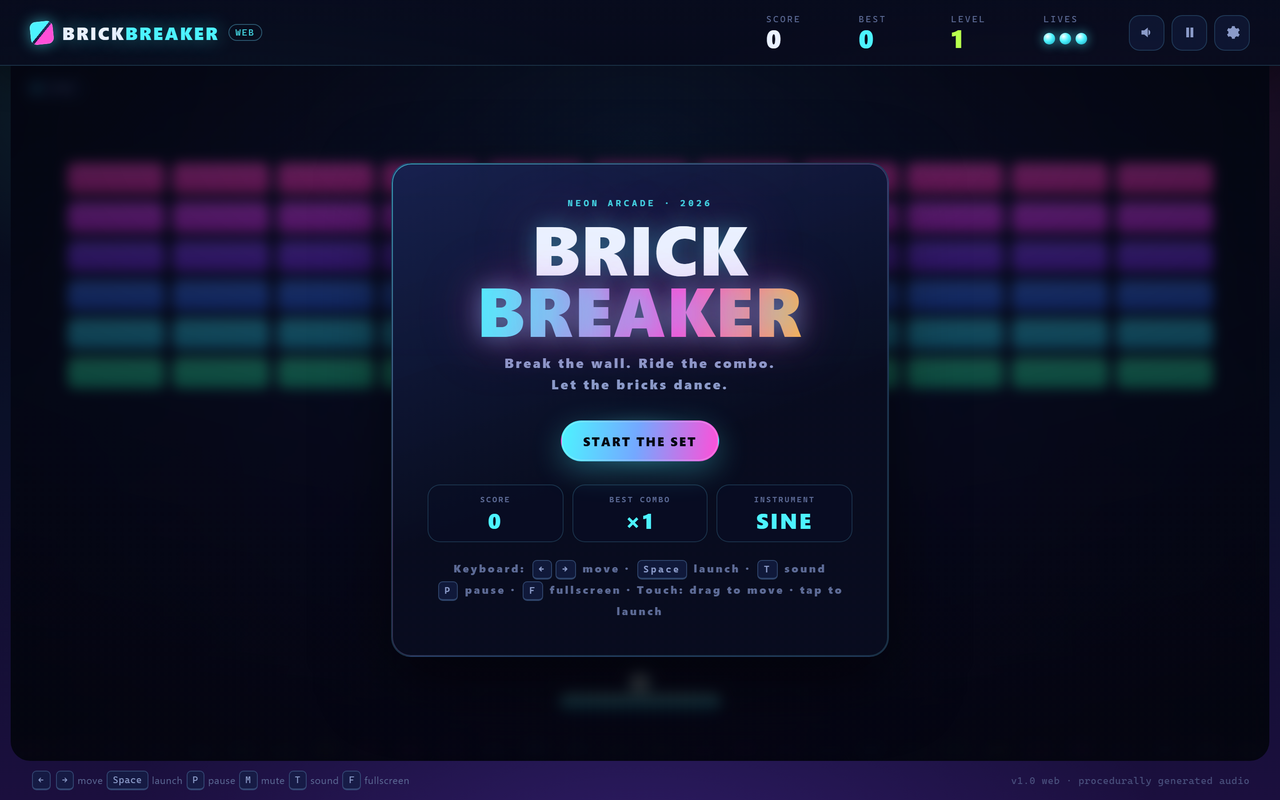
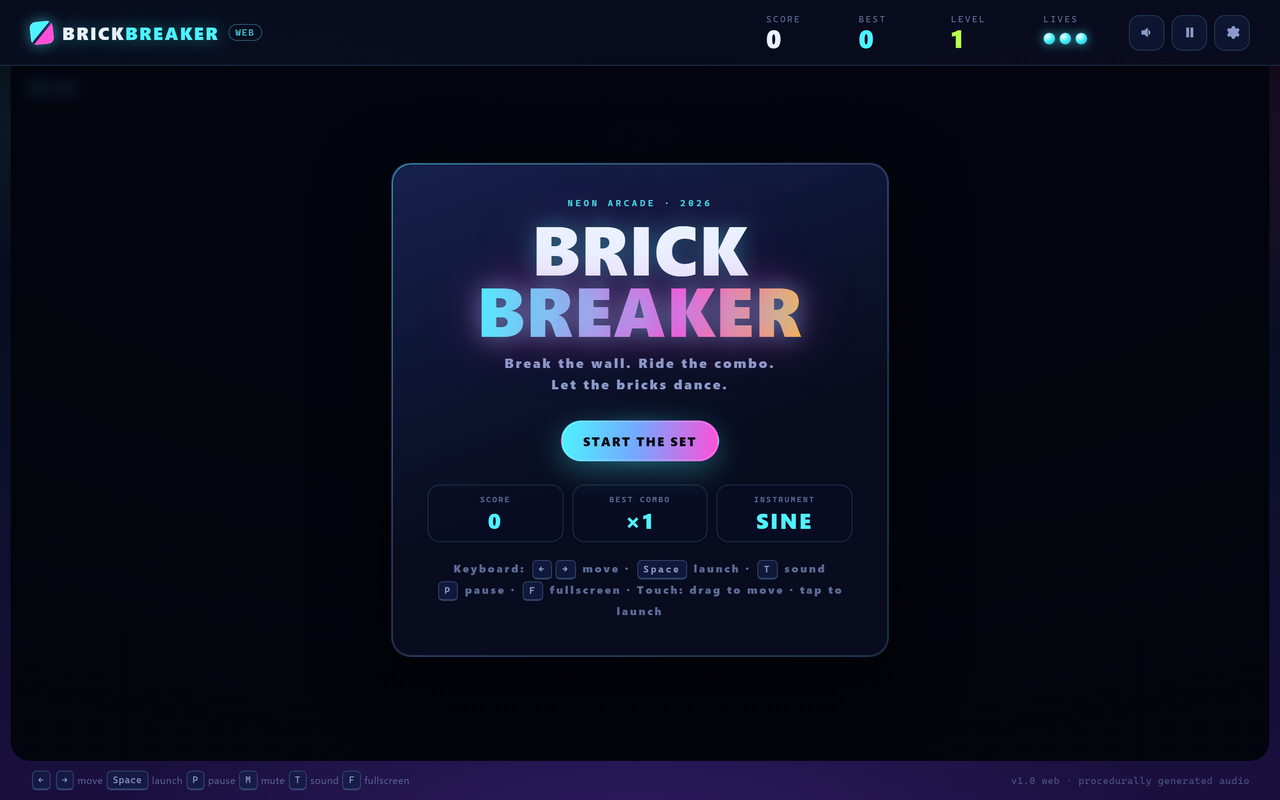
Web: low-fi pixel brick sprites (more arcade feel, more fps)
Bricks were still drawn as vector-ish rounded shapes with bevel strips; the
result looked too clean for the neon-arcade direction and cost per-brick path
work. They are now deliberately low-fi:

- 20x8 pixel-art sprite per brick (dark pixel outline with clipped corners,
  chunky two-tone bevel, dither marks, white 2-HP pip, pixel crack zig-zag),
  stretched with imageSmoothingEnabled=false.
- Sprites are cached per quantised hue/lightness/state/HP bucket, so the combo
  colour cycle is just drawImage calls; the wall still shifts hue as before.
- Cache is bounded and rebuilt if it grows past 320 variants.

Measured in headless Chrome (software rendering): 1440x900@DPR2 adaptive
~55-58 -> ~60 fps; full 2x backing ~34 fps (GPU is faster); DPR1 and mobile
remain 60 fps. 35 core tests pass; touch regression passes; no console errors.
Screenshots/docs/CHANGELOG refreshed with the pixel look and new numbers.

Changed region(s): [[0.0312, 0.1875, 0.9688, 0.5], [0.4375, 0.8438, 0.5625, 0.9062]]

diff --git a/web/js/50-renderer.js b/web/js/50-renderer.js
@@ -71,6 +71,7 @@
     this._bgWidth = 0;
     this._bgHeight = 0;
     this._glowSprites = {};
+    this._brickSprites = {};
     this._rowHueStrings = null;
     this._eqHue = null;
 
@@ -378,8 +379,82 @@
   };
 
   /* ---------------------------------------------------------------------
-   * Bricks (flat fills; no per-brick gradients/shadowBlur)
+   * Bricks: tiny pixel-art sprites scaled up with nearest-neighbour filtering.
+   *
+   * Each brick is a 20×8 pixel sprite (outline, chunky bevel, dither marks,
+   * crack pixels) stretched over the brick rect. That is much cheaper than
+   * per-brick paths/gradients and gives the wall an arcade-CRT look. Combo
+   * colours are quantised into small hue/lightness buckets so the sprite cache
+   * stays tiny while the wall still visibly cycles colour.
    * ------------------------------------------------------------------- */
+  var BRICK_SPRITE_W = 20;
+  var BRICK_SPRITE_H = 8;
+
+  Renderer.prototype._brickSprite = function (hue, lightness, state, maxHp) {
+    var hueBucket = Math.round((((hue % 360) + 360) % 360) / 12) * 12 % 360;
+    var lightBucket = Math.round(lightness / 4) * 4;
+    var key = hueBucket + ':' + lightBucket + ':' + state + ':' + (maxHp > 1 ? '2' : '1');
+    var cached = this._brickSprites[key];
+    if (cached) return cached;
+
+    var W = BRICK_SPRITE_W;
+    var H = BRICK_SPRITE_H;
+    var canvas = document.createElement('canvas');
+    canvas.width = W;
+    canvas.height = H;
+    var g = canvas.getContext('2d');
+    var saturation = style.brickSaturation;
+    var body = hsl(hueBucket, saturation, lightBucket);
+    var top = hsl(hueBucket, saturation, Math.min(80, lightBucket + 16));
+    var bottom = hsl((hueBucket + 14) % 360, saturation, Math.max(18, lightBucket - 16));
+    var outline = 'rgba(4, 6, 14, 0.92)';
+
+    // dark pixel outline with clipped corners
+    g.fillStyle = outline;
+    g.fillRect(0, 0, W, H);
+    g.clearRect(0, 0, 1, 1);
+    g.clearRect(W - 1, 0, 1, 1);
+    g.clearRect(0, H - 1, 1, 1);
+    g.clearRect(W - 1, H - 1, 1, 1);
+
+    // body + chunky two-tone bevel
+    g.fillStyle = body;
+    g.fillRect(1, 1, W - 2, H - 2);
+    g.fillStyle = top;
+    g.fillRect(1, 1, W - 2, 1);
+    g.fillRect(1, 1, 1, H - 2);
+    g.fillStyle = bottom;
+    g.fillRect(1, H - 2, W - 2, 1);
+    g.fillRect(W - 2, 2, 1, H - 4);
+
+    // dither marks (the deliberately "low quality" texture)
+    g.fillStyle = 'rgba(255, 255, 255, 0.28)';
+    g.fillRect(3, 2, 2, 1);
+    g.fillRect(W - 6, 2, 2, 1);
+    g.fillStyle = 'rgba(0, 0, 0, 0.22)';
+    g.fillRect(5, H - 3, 1, 1);
+    g.fillRect(W - 8, H - 3, 1, 1);
+
+    if (maxHp > 1) {
+      g.fillStyle = 'rgba(255, 255, 255, 0.9)';
+      g.fillRect(Math.floor(W / 2) - 1, Math.floor(H / 2) - 1, 2, 2);
+    }
+
+    if (state === BB.BrickState.CRACKED) {
+      g.fillStyle = 'rgba(3, 4, 12, 0.9)';
+      g.fillRect(7, 1, 1, 2);
+      g.fillRect(8, 3, 1, 2);
+      g.fillRect(7, 5, 1, 2);
+      g.fillRect(12, 2, 1, 1);
+      g.fillRect(13, 3, 1, 2);
+      g.fillRect(12, 5, 1, 1);
+    }
+
+    if (Object.keys(this._brickSprites).length > 320) this._brickSprites = {};
+    this._brickSprites[key] = canvas;
+    return canvas;
+  };
+
   Renderer.prototype._brickStyle = function (session, brick) {
     var multiplier = this._comboMultiplier(session);
     var heat = clamp((multiplier - 1) / Math.max(1, config.COMBO_MAX - 1), 0, 1);
@@ -393,24 +468,14 @@
       }
     }
     var lightness = style.brickLightness - 2 + heat * 3 + this.beat * (2 + heat * 6);
-    var saturation = style.brickSaturation + heat * 6;
-    return {
-      hue: hue,
-      saturation: saturation,
-      lightness: lightness,
-      heat: heat,
-      fill: hsl(hue, saturation, lightness),
-      top: hsl(hue, saturation, Math.min(78, lightness + 12)),
-      bottom: hsl(hue + 12, saturation, Math.max(20, lightness - 14))
-    };
+    return { hue: hue, lightness: lightness, heat: heat };
   };
 
   Renderer.prototype._drawBricks = function (session) {
     var ctx = this.ctx;
     var bricks = session.bricks || [];
-    var radius = Math.max(3, Math.min(9, (session.layout ? session.layout.brickH : 20) * 0.22));
-    var round = typeof ctx.roundRect === 'function';
-
+    ctx.save();
+    ctx.imageSmoothingEnabled = false;
     for (var i = 0; i < bricks.length; i += 1) {
       var brick = bricks[i];
       if (brick.state === BB.BrickState.GONE) continue;
@@ -420,44 +485,14 @@
       var alpha = brick.state === BB.BrickState.FADING
         ? clamp(brick.fade / config.BRICK_FADE_TIME, 0, 1)
         : 1;
+      if (alpha <= 0.01) continue;
       var look = this._brickStyle(session, brick);
-      var x = rect.x;
-      var y = rect.y;
-      var w = rect.w;
-      var h = rect.h;
-
+      var sprite = this._brickSprite(look.hue, look.lightness, brick.state, brick.maxHp);
       ctx.globalAlpha = alpha;
-      ctx.fillStyle = look.fill;
-      if (round) {
-        ctx.beginPath();
-        ctx.roundRect(x, y, w, h, radius);
-        ctx.fill();
-      } else {
-        roundRectPath(ctx, x, y, w, h, radius);
-        ctx.fill();
-      }
-
-      // cheap two-tone bevel (rectangular strips inside the rounded shape)
-      var inset = Math.max(1.5, radius * 0.6);
-      ctx.globalAlpha = alpha * 0.45;
-      ctx.fillStyle = look.top;
-      ctx.fillRect(x + inset, y + inset * 0.7, w - inset * 2, Math.max(1.5, h * 0.22));
-      ctx.globalAlpha = alpha * 0.30;
-      ctx.fillStyle = look.bottom;
-      ctx.fillRect(x + inset, y + h - inset * 1.6, w - inset * 2, Math.max(1, h * 0.16));
-
-      if (brick.state === BB.BrickState.CRACKED) {
-        ctx.globalAlpha = alpha * 0.55;
-        ctx.strokeStyle = 'rgba(8, 10, 24, 0.85)';
-        ctx.lineWidth = Math.max(1, h * 0.07);
-        ctx.beginPath();
-        ctx.moveTo(x + w * 0.36, y + h * 0.16);
-        ctx.lineTo(x + w * 0.5, y + h * 0.54);
-        ctx.lineTo(x + w * 0.42, y + h * 0.84);
-        ctx.stroke();
-      }
+      ctx.drawImage(sprite, Math.round(rect.x), Math.round(rect.y), Math.round(rect.w), Math.round(rect.h));
     }
     ctx.globalAlpha = 1;
+    ctx.restore();
   };
 
   /* ---------------------------------------------------------------------

diff --git a/CHANGELOG.md b/CHANGELOG.md
@@ -28,16 +28,18 @@ Version numbers before 1.0.0 are retrospective labels for the dated milestones.
 - `localStorage` persistence for best score/combo/level, instrument, mute,
   light-show preference and render-quality mode.
 - **Performance pass for the web build**: the static playfield scenery is cached
-  in an offscreen canvas, bricks are flat-shaded instead of using per-brick
-  gradients + `shadowBlur`, the combo glow is a cached sprite, the HUD/chips no
-  longer use `backdrop-filter` over the animated canvas, and the ambient
-  background is static. The renderer now sizes its backing store from
-  `devicePixelRatio` × an adaptive quality scale: when a device cannot hold
-  ~54 fps the canvas resolution is lowered (never the fixed 120 Hz physics) and
-  recovered when there is headroom. DJ booth exposes AUTO / CRISP / FAST;
-  `?stats=1` shows live FPS/quality/backing size. Headless-Chrome measurements on
-  the dev machine improved from ~10 fps to ~53–58 fps (adaptive) at
-  1440×900@DPR2, and 32 fps → 60 fps at DPR1.
+  in an offscreen canvas, bricks are **low-fi 20×8 pixel sprites** (outline,
+  chunky bevel, dither and crack pixels) stretched with nearest-neighbour
+  filtering instead of per-brick gradients + `shadowBlur`, the combo glow is a
+  cached sprite, the HUD/chips no longer use `backdrop-filter` over the animated
+  canvas, and the ambient background is static. The renderer now sizes its
+  backing store from `devicePixelRatio` × an adaptive quality scale: when a
+  device cannot hold ~54 fps the canvas resolution is lowered (never the fixed
+  120 Hz physics) and recovered when there is headroom. DJ booth exposes
+  AUTO / CRISP / FAST; `?stats=1` shows live FPS/quality/backing size.
+  Headless-Chrome measurements on the dev machine improved from ~10 fps to
+  **~60 fps** (adaptive) at 1440×900@DPR2, and 32 fps → 60 fps at DPR1; the
+  deliberately coarse brick look also gives the arcade wall more character.
 - Web test tooling with no npm dependency: 35 `node:test` simulation tests
   (`web/tests/core.test.mjs`) plus a DevTools-Protocol browser checker
   (`web/tests/browser-check.mjs`) for layout/DPR/overflow/console-error checks,

diff --git a/web/README.md b/web/README.md
@@ -108,13 +108,21 @@ renderer is tuned so this stays smooth even on high-DPI laptops:
 
 - the static scenery (gradient, perspective grid, scanlines, vignette) is cached
   in an offscreen canvas and blitted once per frame;
-- bricks use flat fills + highlight/shade strips instead of per-brick gradients
-  and `shadowBlur`; the combo glow is a cached sprite;
+- bricks are **deliberately low-fi pixel sprites**: each one is a 20×8 pixel tile
+  (outline, chunky bevel, dither marks, crack pixels) stretched with
+  nearest-neighbour filtering. That is faster than drawing rounded paths and
+  gradients per brick, and gives the wall an arcade-CRT feel instead of a glossy
+  web look;
+- the combo glow is a cached sprite, and the equalizer bars are plain rects;
 - the canvas backing store is sized from `devicePixelRatio`, and **adaptive
   resolution** lowers that scale when the frame rate drops (it raises it again
   when the machine can keep up). The simulation is never slowed down.
 - CSS performance: no `backdrop-filter` on the HUD/chips over the animated
   canvas, and the ambient background is static.
+
+With the pixel bricks, the adaptive renderer reaches ~60 fps at
+1440×900@DPR2 in software-rendered headless Chrome (full 2× backing ~34 fps
+there; a real GPU is faster), and 60 fps at DPR1 and on phones.
 
 If you want to inspect or control it:
 

diff --git a/web/README.zh-CN.md b/web/README.zh-CN.md
@@ -89,9 +89,14 @@ python -m http.server 8080
 游戏逻辑固定 120 Hz，渲染跟随每一帧动画。为了在高分屏/弱显卡上也顺滑：
 
 - 静态背景（渐变、透视网格、扫描线、暗角）预先画到离屏 canvas，每帧只 blit 一次；
-- 砖块改用纯色填充 + 高光/阴影条，不再每块砖创建渐变和 `shadowBlur`；连击光晕用缓存 sprite；
+- 砖块改成**刻意低清的像素 sprite**：每块砖是 20×8 的像素图（描边、粗高光、抖动点、裂纹像素），
+  用最近邻放大。既比每块砖画圆角路径/渐变便宜，又有街机 CRT 的粗糙感，不再是“过于精致的网页风”；
+- 连击光晕用缓存 sprite，底部均衡器改用纯矩形；
 - canvas backing store 按 `devicePixelRatio` 设置，并带**自适应分辨率**：帧率掉下来时只降画质、不降物理频率，机器有余量时再升回去；
 - CSS 也做了减负：HUD/芯片不再对动画 canvas 做 `backdrop-filter`，环境背景改为静态。
+
+换成像素砖块后，headless Chrome 软件渲染下 1440×900@DPR2 自适应约 **60 FPS**
+（强制全 2x backing 在这个软件渲染环境约 34 FPS，真实 GPU 会更高），DPR1 和手机都是 60 FPS。
 
 想检查或手动控制：
 

diff --git a/web/tests/README.md b/web/tests/README.md
@@ -75,16 +75,17 @@ Chrome is auto-detected in the usual Windows/macOS/Linux install locations; set
 ## Performance checks
 
 The renderer is tuned for Canvas2D: static scenery is cached in an offscreen
-canvas, bricks are flat-shaded (no per-brick `shadowBlur`/gradients), the HUD has
-no `backdrop-filter` over the animated canvas, and the app adapts the canvas
+canvas, bricks are low-fi 20×8 pixel sprites drawn with nearest-neighbour
+filtering (no per-brick paths, gradients or `shadowBlur`), the HUD has no
+`backdrop-filter` over the animated canvas, and the app adapts the canvas
 resolution when the frame rate drops (simulation stays 120 Hz). `?stats=1` shows
 the live values. Typical headless-Chrome measurements on this machine
 (software rendering, so real GPUs are faster):
 
 | Scenario | Before | After |
 | --- | --- | --- |
-| 1440×900 @DPR2, full quality | ~10 fps | ~31–33 fps |
-| 1440×900 @DPR2, adaptive | ~10 fps | ~53–58 fps (scale ≈0.6–0.7) |
+| 1440×900 @DPR2, full quality | ~10 fps | ~34 fps |
+| 1440×900 @DPR2, adaptive | ~10 fps | **~60 fps** (scale ≈0.6–0.8) |
 | 1440×900 @DPR1 | ~32 fps | 60 fps |
 | 390×844 @DPR2 (mobile) | — | 60 fps at full quality |
 

diff --git a/web/ARCHITECTURE.md b/web/ARCHITECTURE.md
@@ -139,8 +139,11 @@ effect honours the DJ-booth toggle and `prefers-reduced-motion`.
   exposes AUTO / CRISP / FAST; `?stats=1` shows FPS, scale and backing size.
 - **Static background cache:** the gradient, perspective grid, scanlines and
   vignette are rendered once into an offscreen canvas on resize and blitted per
-  frame; bricks use flat fills and highlight/shade strips instead of per-brick
-  gradients or `shadowBlur`. This is what keeps Canvas2D fast on high-DPR panels.
+  frame. Bricks are **20×8 pixel-art sprites** (outline, chunky bevel, dither
+  marks, crack pixels) stretched with `imageSmoothingEnabled = false`; sprite
+  variants are cached per quantised hue/lightness bucket, so the combo colour
+  cycle stays cheap while the wall keeps a deliberately low-fi arcade look.
+  This is what keeps Canvas2D fast on high-DPR panels.
 - `App.resize()` uses a `ResizeObserver` on the stage plus window/orientation/
   fullscreen listeners; the session re-derives the room/grid from the new canvas
   size (same formulas as the desktop `FieldLayout.compute`).
